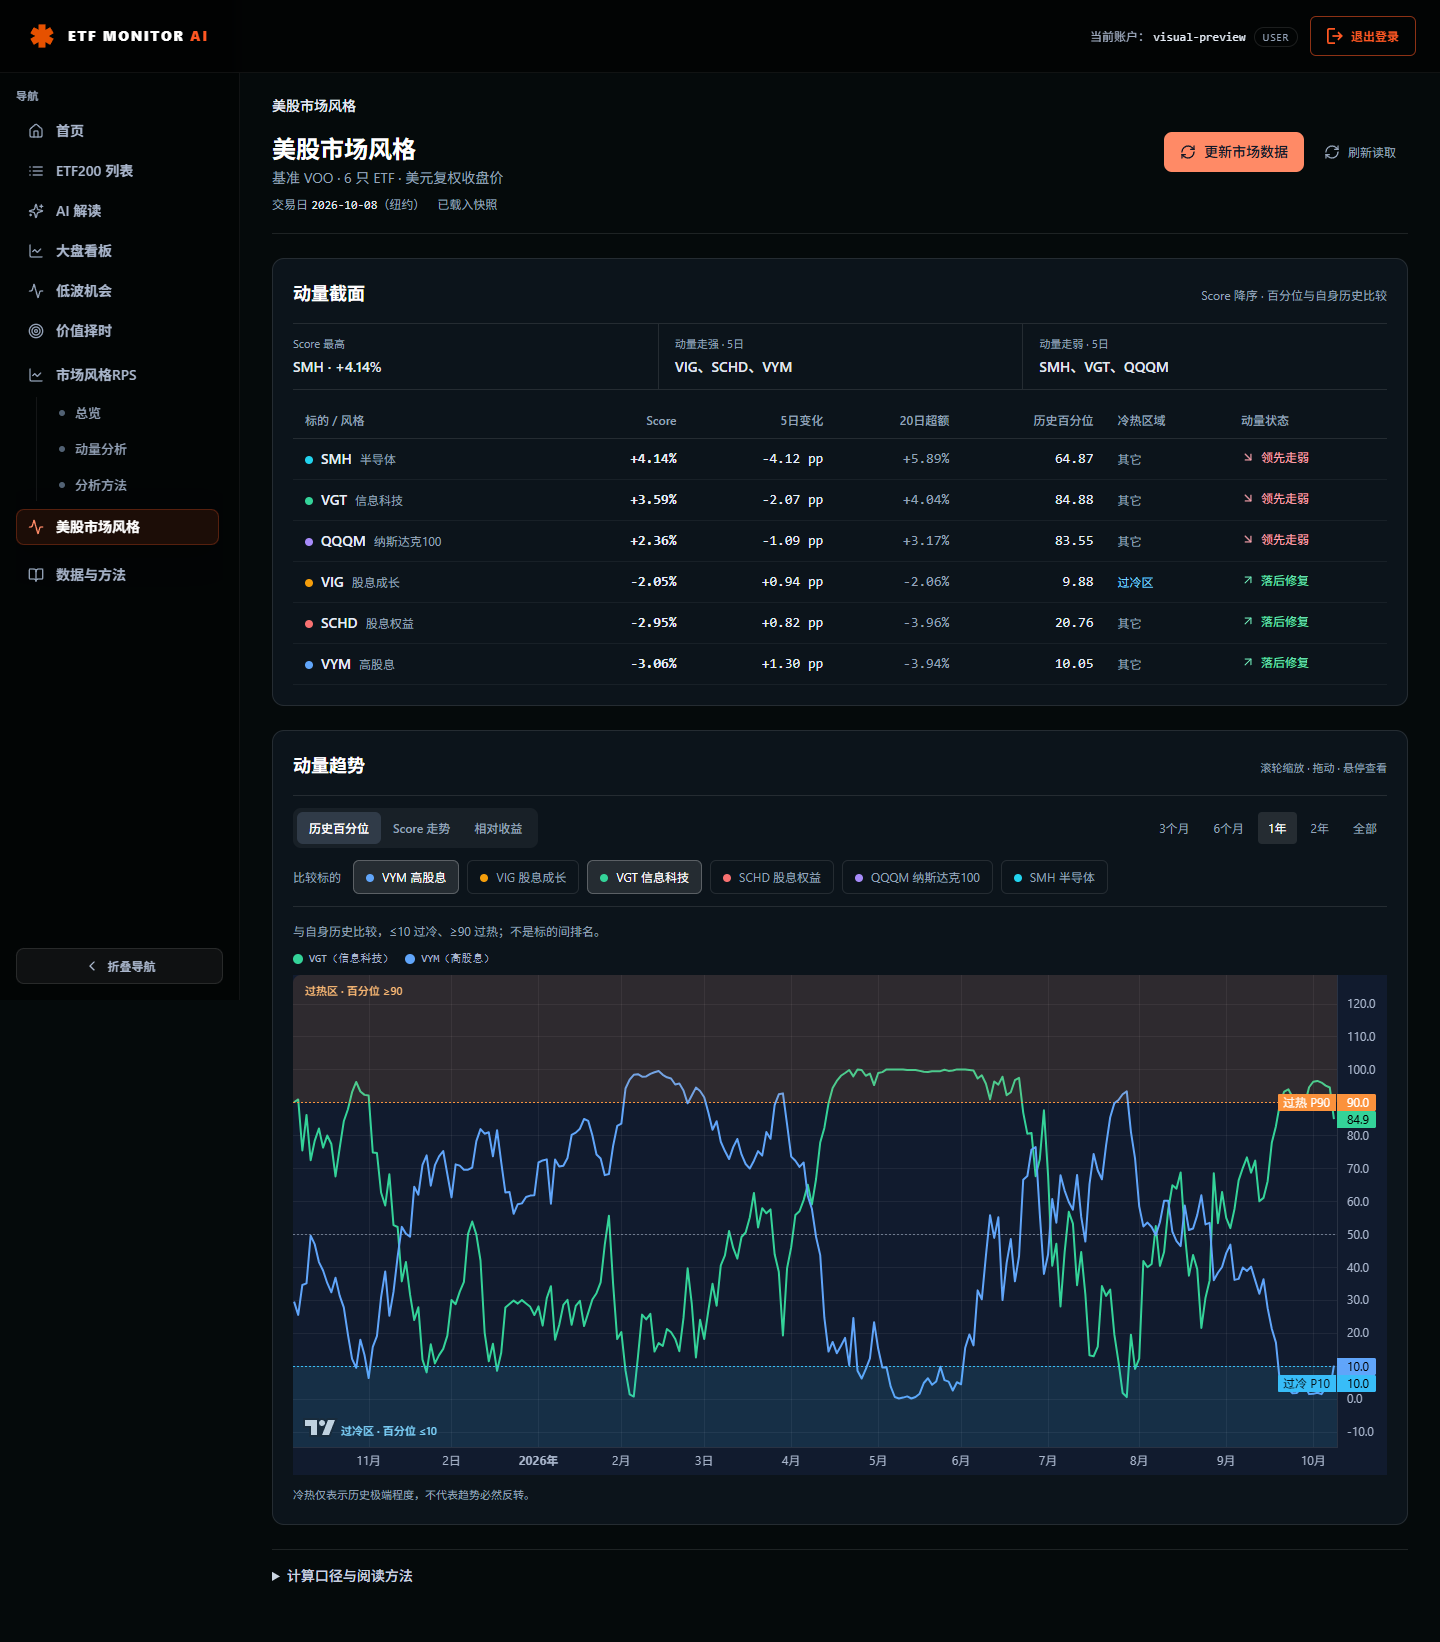
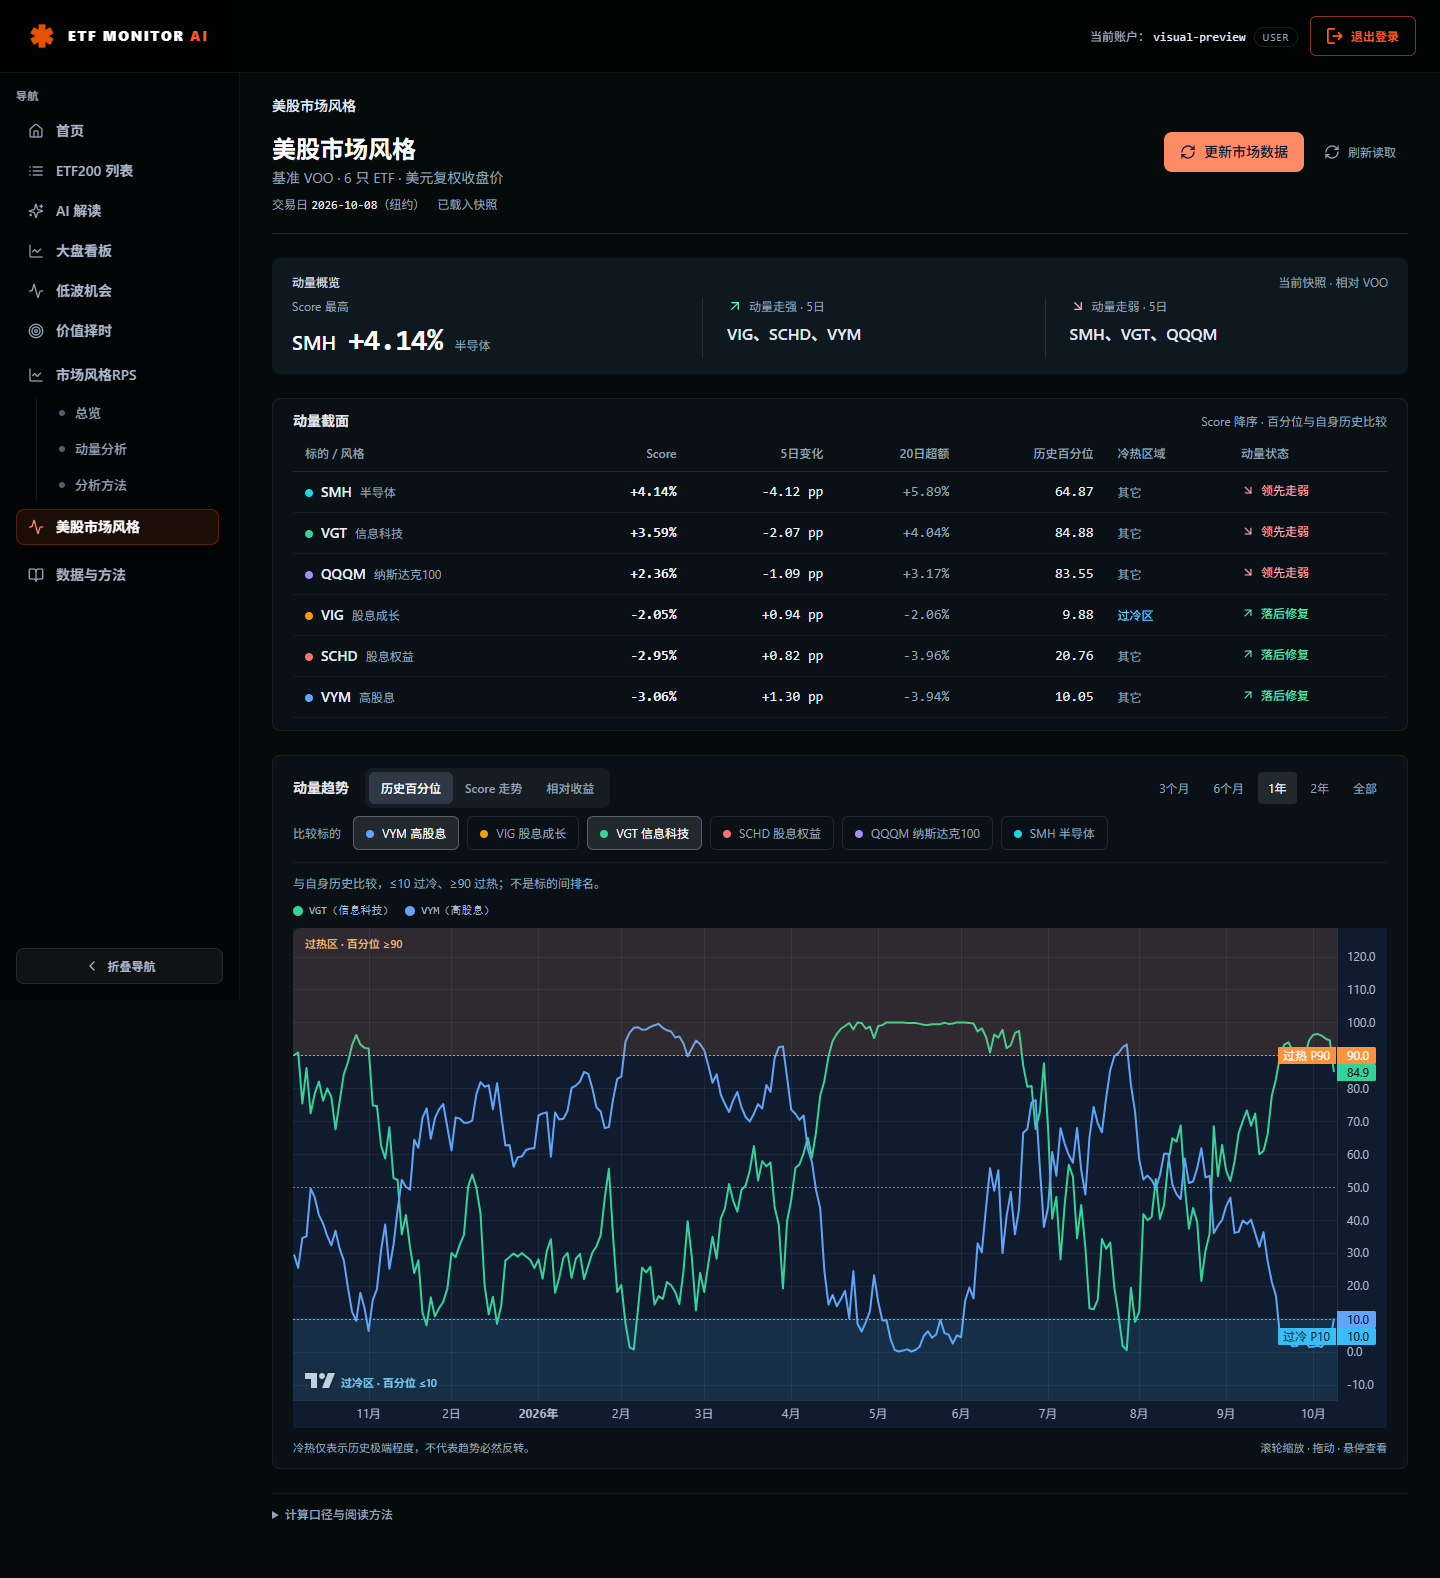
更新UI

diff --git a/src/pages/UsMarketStyle.tsx b/src/pages/UsMarketStyle.tsx
@@ -185,21 +185,35 @@ export default function UsMarketStyle() {
         {missingTargets.length > 0 && <p role="alert" className="rounded-lg border border-amber-400/25 bg-amber-400/10 p-4 text-sm text-amber-200">当前快照尚未包含 {missingTargets.join('、')}，请更新数据库发布校验并运行刷新任务；其余标的仍可独立比较。</p>}
         </header>
         {snapshot && <>
-          <section className="min-w-0 rounded-xl border border-white/10 bg-[#0C141B] p-4 sm:p-5" aria-labelledby="us-cross-section">
-            <div className="mb-4 flex flex-wrap items-baseline justify-between gap-2">
-              <h2 id="us-cross-section" className="text-lg font-semibold text-white">动量截面</h2>
+          <section className="min-w-0 rounded-lg bg-[#101B24]/80 px-4 py-3 sm:px-5 sm:py-4" aria-labelledby="us-momentum-overview">
+            <div className="mb-2 flex flex-wrap items-baseline justify-between gap-2">
+              <h2 id="us-momentum-overview" className="text-xs font-medium text-slate-300">动量概览</h2>
+              <p className="text-xs text-slate-400">当前快照 · 相对 VOO</p>
+            </div>
+            <dl className="grid grid-cols-2 gap-y-4 sm:grid-cols-[1.2fr_1fr_1fr]" aria-label="动量摘要">
+              <div className="col-span-2 min-w-0 border-b border-white/10 pb-4 sm:col-span-1 sm:border-b-0 sm:border-r sm:pb-0 sm:pr-6">
+                <dt className="text-xs text-slate-400">Score 最高</dt>
+                <dd className="mt-2 flex flex-wrap items-baseline gap-x-3 gap-y-1">
+                  <span className="text-xl font-semibold text-white">{snapshot.items[0].ticker}</span>
+                  <span className="font-mono text-3xl font-semibold tracking-tight text-white tabular-nums">{fmt(snapshot.items[0].scorePct)}</span>
+                  <span className="text-xs text-slate-400">{NAMES[snapshot.items[0].ticker]}</span>
+                </dd>
+              </div>
+              {[
+                { title: '动量走强 · 5日', text: rising, Icon: ArrowUpRight, color: 'text-emerald-300' },
+                { title: '动量走弱 · 5日', text: falling, Icon: ArrowDownRight, color: 'text-rose-300' },
+              ].map(({ title, text, Icon, color }, index) => <div key={title}
+                className={cn('min-w-0 sm:px-6', index === 0 ? 'border-r border-white/10 pr-4' : 'pl-4 sm:pr-0')}>
+                <dt className="flex items-center gap-1.5 text-xs text-slate-400"><Icon aria-hidden="true" className={cn('h-4 w-4 shrink-0', color)} />{title}</dt>
+                <dd className="mt-2 text-sm font-semibold leading-6 text-slate-200 sm:text-base">{text}</dd>
+              </div>)}
+            </dl>
+          </section>
+          <section className="min-w-0 rounded-lg border border-white/[0.06] bg-[#0C141B]/70 px-4 py-3 sm:px-5" aria-labelledby="us-cross-section">
+            <div className="mb-1 flex flex-wrap items-baseline justify-between gap-2">
+              <h2 id="us-cross-section" className="text-sm font-semibold text-slate-200">动量截面</h2>
               <p className="text-xs text-[#94A3B8]">Score 降序 · 百分位与自身历史比较</p>
             </div>
-          <div className="mb-3 grid divide-y divide-white/10 border-y border-white/10 sm:grid-cols-3 sm:divide-x sm:divide-y-0" aria-label="动量摘要">
-            {[
-              { title: 'Score 最高', text: `${snapshot.items[0].ticker} · ${fmt(snapshot.items[0].scorePct)}` },
-              { title: '动量走强 · 5日', text: rising },
-              { title: '动量走弱 · 5日', text: falling },
-            ].map((card) => <div key={card.title} className="min-w-0 py-3 sm:px-4 sm:first:pl-0 sm:last:pr-0">
-              <div className="text-[11px] text-[#94A3B8]">{card.title}</div>
-              <div className="mt-1 text-sm font-medium text-slate-200">{card.text}</div>
-            </div>)}
-          </div>
             <div className="overflow-x-auto" role="region" aria-label="动量截面表格" tabIndex={0}>
               <table className="w-full whitespace-nowrap text-left text-sm">
                 <thead className="text-xs text-[#94A3B8]"><tr>
@@ -235,13 +249,11 @@ export default function UsMarketStyle() {
             </div>
             <p className="mt-2 text-[11px] text-slate-400 sm:hidden">左右滑动表格查看全部指标</p>
           </section>
-          <section className="min-w-0 space-y-4 rounded-xl border border-white/10 bg-[#0C141B] p-4 sm:p-5" aria-labelledby="us-trend">
-            <div className="flex flex-wrap items-baseline justify-between gap-2">
-              <h2 id="us-trend" className="text-lg font-semibold text-white">动量趋势</h2>
-              <span className="text-[11px] text-slate-400">滚轮缩放 · 拖动 · 悬停查看</span>
-            </div>
-            <div className="space-y-3 border-y border-white/10 py-3" role="group" aria-label="趋势操作区">
+          <section className="min-w-0 space-y-3 rounded-lg border border-white/[0.06] bg-[#0C141B]/70 px-4 py-3 sm:px-5" aria-labelledby="us-trend">
+            <div className="space-y-2 border-b border-white/[0.06] pb-3" role="group" aria-label="趋势操作区">
               <div className="flex flex-wrap items-center justify-between gap-3">
+              <div className="flex flex-wrap items-center gap-x-4 gap-y-2">
+              <h2 id="us-trend" className="text-sm font-semibold text-slate-200">动量趋势</h2>
               <div className="inline-flex rounded-lg bg-white/5 p-1" role="group" aria-label="趋势视图">{[
                 { value: 'percentile' as const, label: '历史百分位', tip: '比较各标的相对自身历史的冷热程度' },
                 { value: 'score' as const, label: 'Score 走势', tip: 'RPS 相对 MA50 归一，观察动量方向' },
@@ -249,6 +261,7 @@ export default function UsMarketStyle() {
               ].map((x) => <button type="button" key={x.value} title={x.tip} aria-pressed={view === x.value} onClick={() => setView(x.value)}
                 className={cn('rounded-md px-3 py-2 text-xs font-medium transition-colors focus-visible:outline-none focus-visible:ring-2 focus-visible:ring-orange-300 motion-reduce:transition-none',
                   view === x.value ? 'bg-slate-600/50 text-white' : 'text-slate-400 hover:text-white')}>{x.label}</button>)}</div>
+              </div>
               <div className="flex flex-wrap items-center gap-1" role="group" aria-label="时间范围">
                 {RANGES.map((x) => <button type="button" key={x.value} aria-pressed={range === x.value} onClick={() => setRange(x.value)}
                   className={cn('rounded px-2.5 py-2 text-xs transition-colors focus-visible:outline-none focus-visible:ring-2 focus-visible:ring-slate-400 motion-reduce:transition-none',
@@ -275,12 +288,15 @@ export default function UsMarketStyle() {
             {view === 'relative' && <p className="text-xs text-[#94A3B8]">各标的相对 VOO 的 RPS 在区间起点归一为 1，上行表示区间跑赢 VOO。</p>}
             <RpsStyleChart seriesByTicker={chartSeries} viewMode={view} tickerNameMap={NAMES} tickerColorMap={COLORS}
               enabledTickers={enabled} compactLegend baseLabel="各标的相对 VOO 的 RPS 在区间起点归一为 1" lockEdges={false} scoreBands={false} scoreZones={view === 'percentile' ? PERCENTILE_ZONES : scoreZones} />
-            <p className="text-[11px] text-slate-400">冷热仅表示历史极端程度，不代表趋势必然反转。</p>
+            <div className="flex flex-wrap justify-between gap-x-4 gap-y-1 text-[11px] text-slate-400">
+              <p>冷热仅表示历史极端程度，不代表趋势必然反转。</p>
+              <span>滚轮缩放 · 拖动 · 悬停查看</span>
+            </div>
             </div>
           </section>
         </>}
-        <details className="group border-t border-white/10 pt-4 text-sm leading-7 text-[#94A3B8]">
-          <summary className="cursor-pointer text-sm font-medium text-slate-300 transition-colors hover:text-white focus-visible:outline-none focus-visible:ring-2 focus-visible:ring-slate-400">计算口径与阅读方法</summary>
+        <details className="group border-t border-white/[0.06] pt-3 text-sm leading-7 text-[#94A3B8]">
+          <summary className="cursor-pointer text-xs font-medium text-slate-400 transition-colors hover:text-white focus-visible:outline-none focus-visible:ring-2 focus-visible:ring-slate-400">计算口径与阅读方法</summary>
           <div className="mt-3 space-y-2">
           <p>RPS = 标的复权收盘价 / VOO 复权收盘价；MA50 = RPS 的 50 交易日简单均线；Score = (RPS / MA50 − 1) × 100%。VOO 自身的 Score 恒为 0，作为参考基线，不参与排名；SCHD 为普通比较标的。</p>
           <p>5 日变化 = 今日 Score − 5 个共同交易日前 Score。变化超过 +0.10 pp 为走强，低于 −0.10 pp 为走弱，其余为平稳；这是过滤微小波动的展示阈值，不是经回测验证的交易信号。20 日相对收益 = (今日 RPS / 20 个交易日前 RPS − 1) × 100%。</p>

diff --git a/visual-acceptance/验收结果.md b/visual-acceptance/验收结果.md
@@ -2,12 +2,15 @@
 
 ## 结论
 
-“两个主面板＋数据工具栏”分组版已完成，本地截图级视觉验收通过。未发现需要额外修复的遮挡、文字截断或整页横向溢出问题。
+“顶部动量概览＋截面与趋势面板”版已完成，本地截图级视觉验收通过。未发现需要额外修复的遮挡、文字截断或整页横向溢出问题。
 
 - 数据日期、更新操作、任务进度和警告统一归入顶部数据工具栏。
-- 动量摘要归入截面面板，桌面使用竖向分隔，手机使用横向分隔。
-- 截面和趋势使用低对比底色与细边界，标题统一为同级。
-- 趋势视图、时间范围和比较标的归入统一操作区，与图表以分割线区分。
+- 动量摘要从截面独立为顶部“动量概览”，位于数据工具栏下方。Score 最高标的与数值为主要视觉重点。
+- 桌面三项并列；手机最高标的在上，走强与走弱并排在下。截面面板专注表格，不重复摘要。
+- 概览标题使用紧凑标签；截面标题贴近表格；趋势标题与视图切换同排，避免重复独立标题行。
+- 概览取消外框，截面与趋势边框降为 6% 白色，圆角从 12px 缩小为 8px，保留低对比底色建立分组。
+- 趋势操作区仅保留底部分割线，交互说明移至图表页脚。
+- 同尺寸默认视图全页高度由 1733px 降至 1578px（桌面），1879px 降至 1760px（手机）；未删除数据字段或降低图表高度。
 - 构建、美股相关测试、页面 ESLint 和 git diff --check 通过。计算、默认选项和更新逻辑未改动。
 
 ## 范围
